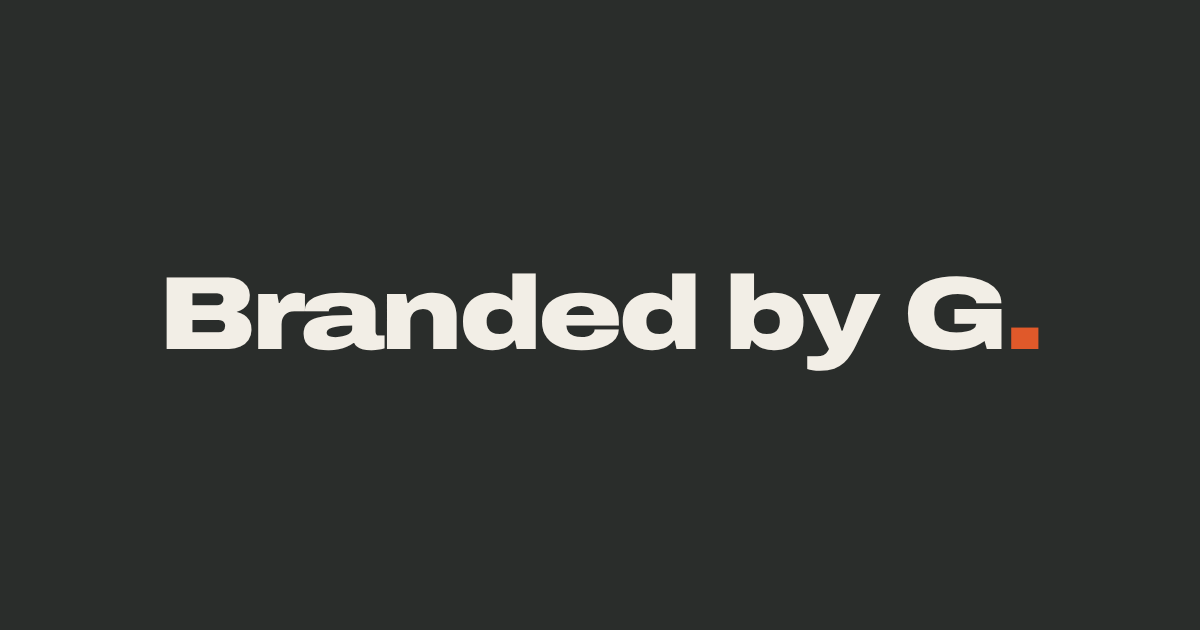
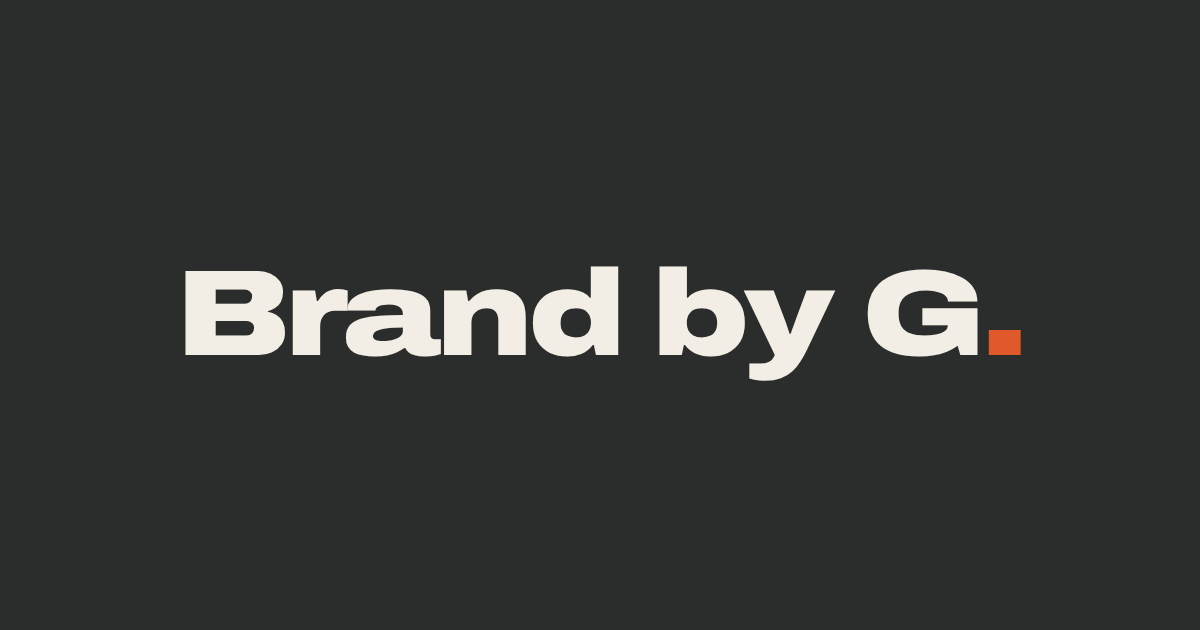
Rename brand to Brand by G
- Logo, page title, footer and README now read "Brand by G."
- New charcoal link-preview image with the new name
- Link-preview tags point to b0to1q.github.io/BRAND-BY-G/ for the
  upcoming repo rename

Claude-Session: https://claude.ai/code/session_01S1GkKjA7JTsXNm3XxvC6Wo

Changed region(s): [[0.1233, 0.4222, 0.8633, 0.6032]]

diff --git a/index.html b/index.html
@@ -3,18 +3,18 @@
 <head>
 <meta charset="utf-8">
 <meta name="viewport" content="width=device-width, initial-scale=1">
-<title>Branded by G — Work</title>
+<title>Brand by G — Work</title>
 <meta name="description" content="Websites for local businesses in Connecticut. Built right. Owned by you.">
 <meta property="og:type" content="website">
-<meta property="og:url" content="https://b0to1q.github.io/BRANDED-BY-G/">
-<meta property="og:title" content="Branded by G">
+<meta property="og:url" content="https://b0to1q.github.io/BRAND-BY-G/">
+<meta property="og:title" content="Brand by G">
 <meta property="og:description" content="Websites for local businesses in Connecticut. Built right. Owned by you.">
-<meta property="og:image" content="https://b0to1q.github.io/BRANDED-BY-G/og.png?v=4">
+<meta property="og:image" content="https://b0to1q.github.io/BRAND-BY-G/og.png?v=5">
 <meta property="og:image:width" content="1200">
 <meta property="og:image:height" content="630">
-<meta property="og:image:alt" content="Branded by G.">
+<meta property="og:image:alt" content="Brand by G.">
 <meta name="twitter:card" content="summary_large_image">
-<meta name="twitter:image" content="https://b0to1q.github.io/BRANDED-BY-G/og.png?v=4">
+<meta name="twitter:image" content="https://b0to1q.github.io/BRAND-BY-G/og.png?v=5">
 <meta name="theme-color" content="#2A2D2B">
 <link rel="preconnect" href="https://fonts.googleapis.com">
 <link rel="preconnect" href="https://fonts.gstatic.com" crossorigin>
@@ -209,7 +209,7 @@ a:focus-visible{outline:3px solid var(--acc);outline-offset:3px;border-radius:4p
 
 <header class="top">
   <div class="wrap">
-    <a class="logo" href="#top">Branded by G<span class="dot">.</span></a>
+    <a class="logo" href="#top">Brand by G<span class="dot">.</span></a>
     <nav aria-label="Main">
       <a href="#work">Work</a>
       <a href="#how">How it works</a>
@@ -465,7 +465,7 @@ a:focus-visible{outline:3px solid var(--acc);outline-offset:3px;border-radius:4p
 </div>
 </main>
 
-<footer><div class="wrap"><span><strong style="font-family:var(--disp);font-weight:900;font-stretch:125%;letter-spacing:-.035em;color:var(--ink)">Branded by G<span class="dot">.</span></strong> · Built right. Owned by you.</span><span>© 2026 George Blanchard Jr.</span></div></footer>
+<footer><div class="wrap"><span><strong style="font-family:var(--disp);font-weight:900;font-stretch:125%;letter-spacing:-.035em;color:var(--ink)">Brand by G<span class="dot">.</span></strong> · Built right. Owned by you.</span><span>© 2026 George Blanchard Jr.</span></div></footer>
 <script>
 {
   const ITEMS = [{"s": "haf", "p": "Home", "k": "hafele-home", "u": "https://b0to1q.github.io/HAFELE/", "a": "Hafele home page: hero with a seasonal estimate request, quick facts, six services with job photos, the Four-Season Care band, service area, Verse of the Day and footer"}, {"s": "haf", "p": "Services", "k": "hafele-services", "u": "https://b0to1q.github.io/HAFELE/services.html", "a": "Hafele services page: Four-Season Care, then six services with job photos and estimate buttons, then common questions"}, {"s": "haf", "p": "About & contact", "k": "hafele-about", "u": "https://b0to1q.github.io/HAFELE/about.html", "a": "Hafele about and contact page"}, {"s": "dani", "p": "Home", "k": "dani-home", "u": "https://b0to1q.github.io/DANIHAMM/", "a": "Dani Hamm home page: name over a misty hero, three full-screen scenes, then the filterable portfolio", "g": "dani"}, {"s": "dani", "p": "Shop", "k": "dani-shop", "u": "https://b0to1q.github.io/DANIHAMM/shop.html", "a": "Dani Hamm shop: prints and goods, eight products", "g": "dani"}, {"s": "dani", "p": "Product", "k": "dani-product", "u": "https://b0to1q.github.io/DANIHAMM/product.html?item=mug", "a": "Dani Hamm product page for a mug: pick the photo, options and quantity", "g": "dani"}, {"s": "dani", "p": "About", "k": "dani-about", "u": "https://b0to1q.github.io/DANIHAMM/about.html", "a": "Dani Hamm about page", "g": "dani"}, {"s": "dani", "p": "Contact", "k": "dani-contact", "u": "https://b0to1q.github.io/DANIHAMM/contact.html", "a": "Dani Hamm contact page with an inquiry form", "g": "dani"}, {"s": "rei", "p": "Home", "k": "reillo", "u": "https://b0to1q.github.io/REILLO/", "a": "Reillo home: animated REILLO wordmark over a light-leak background, service tickers and the package builder below", "yd": 0, "ym": 0}, {"s": "rei", "p": "Package builder", "k": "reillo", "u": "https://b0to1q.github.io/REILLO/#builder", "a": "Reillo package builder: choose vehicle size, services and add-ons with live pricing and time on site", "yd": 0.1898, "ym": 0.1446}, {"s": "rei", "p": "Membership", "k": "reillo", "u": "https://b0to1q.github.io/REILLO/#club", "a": "The Reillo Club: three monthly membership plans", "yd": 0.6098, "ym": 0.5282}, {"s": "rei", "p": "Booking", "k": "reillo", "u": "https://b0to1q.github.io/REILLO/#book", "a": "Reillo booking request form with arrival windows", "yd": 0.8403, "ym": 0.776}];

diff --git a/README.md b/README.md
@@ -1,6 +1,6 @@
-# Branded by G — portfolio
+# Brand by G — portfolio
 
-Portfolio site for Branded by G: websites for local businesses, by George Blanchard Jr. (Plantsville, CT).
+Portfolio site for Brand by G: websites for local businesses, by George Blanchard Jr. (Plantsville, CT).
 
 Features the Hafele Landscaping build and the Dani Hamm spec concept, plus process and pricing.
 
@@ -16,3 +16,4 @@ Settings → Pages → Deploy from branch → `main` / root.
 ## To do
 
 - Add phone and email to the contact card
+- Site address: https://b0to1q.github.io/BRAND-BY-G/ (after the repo is renamed to BRAND-BY-G)
